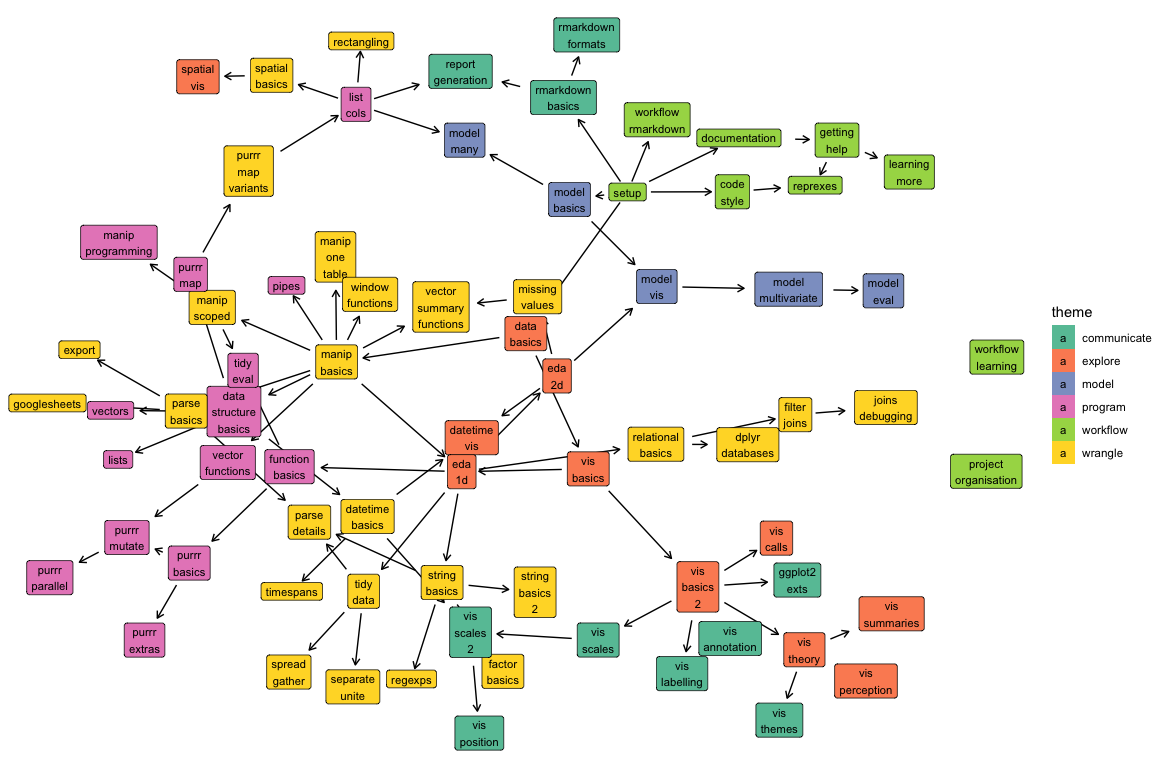
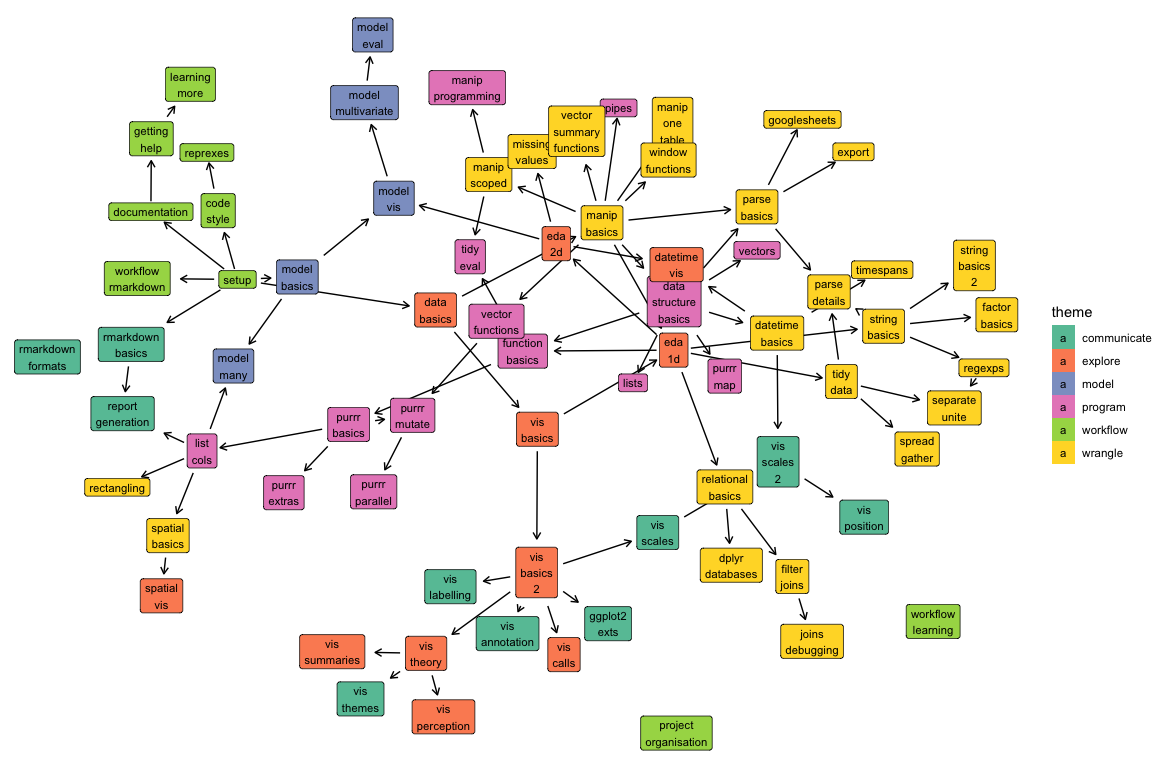
Remove purrr-map-variants

Changed region(s): [[0.0, 0.0, 0.9062, 1.0], [0.3125, 0.2188, 0.375, 0.2812]]

diff --git a/storyboard.md b/storyboard.md
@@ -366,7 +366,7 @@
 |r4ds-21.4                             |For loops vs. functionals                         |                                                                                   |                                                                             |                                                                                     |                                                                                 |                                                                             |                                                                             |                                                                                       |                                                                               |        |                                                                                     |
 |r4ds-21.5                             |The map functions                                 |                                                                                   |                                                                             |                                                                                     |                                                                                 |                                                                             |                                                                             |                                                                                       |                                                                               |        |                                                                                     |
 |r4ds-21.6                             |Dealing with failure                              |                                                                                   |                                                                             |                                                                                     |                                                                                 |                                                                             |                                                                             |                                                                                       |                                                                               |        |                                                                                     |
-|r4ds-21.7                             |Mapping over multiple arguments                   |                                                                                   |                                                                             |                                                                                     |                                                                                 |                                                                             |                                                                             |[purrr-map-variants](https://dcl-2019-01.github.io/curriculum/purrr-map-variants.html) |                                                                               |        |                                                                                     |
+|r4ds-21.7                             |Mapping over multiple arguments                   |                                                                                   |                                                                             |                                                                                     |                                                                                 |                                                                             |                                                                             |                                                                                       |                                                                               |        |                                                                                     |
 |r4ds-21.8                             |Walk                                              |                                                                                   |                                                                             |                                                                                     |                                                                                 |                                                                             |                                                                             |                                                                                       |                                                                               |        |                                                                                     |
 |r4ds-21.9                             |Other patterns of for loops                       |                                                                                   |                                                                             |                                                                                     |                                                                                 |                                                                             |                                                                             |                                                                                       |                                                                               |        |                                                                                     |
 |r4ds-22                               |Introduction                                      |                                                                                   |                                                                             |                                                                                     |                                                                                 |                                                                             |                                                                             |                                                                                       |                                                                               |        |                                                                                     |

diff --git a/docs/list-cols.md b/docs/list-cols.md
@@ -5,7 +5,7 @@ title: List columns
 <!-- Generated automatically from list-cols.yml. Do not edit by hand -->
 
 # List columns <small class='program'>[program]</small>
-<small>(Builds on: [Purrr map variants](purrr-map-variants.md))</small>  
+<small>(Builds on: [purrr basics](purrr-basics.md))</small>  
 <small>(Leads to: [Many models](model-many.md), [Data rectangling](rectangling.md), [Generating multiple reports](report-generation.md), [Spatial basics](spatial-basics.md))</small>
 
 List columns are a powerful way to extend data frames to contain arbitrary

diff --git a/docs/purrr-map.md b/docs/purrr-map.md
@@ -5,8 +5,7 @@ title: Iteration basics
 <!-- Generated automatically from purrr-map.yml. Do not edit by hand -->
 
 # Iteration basics <small class='program'>[program]</small>
-<small>(Builds on: [Data structure basics](data-structure-basics.md))</small>  
-<small>(Leads to: [Purrr map variants](purrr-map-variants.md))</small>
+<small>(Builds on: [Data structure basics](data-structure-basics.md))</small>
 
 
 ## Introduction

diff --git a/docs/purrr-basics.md b/docs/purrr-basics.md
@@ -6,7 +6,7 @@ title: purrr basics
 
 # purrr basics <small class='program'>[program]</small>
 <small>(Builds on: [Function basics](function-basics.md))</small>  
-<small>(Leads to: [Other purrr functions](purrr-extras.md), [purrr inside mutate](purrr-mutate.md))</small>
+<small>(Leads to: [List columns](list-cols.md), [Other purrr functions](purrr-extras.md), [purrr inside mutate](purrr-mutate.md))</small>
 
 
 ``` r

diff --git a/docs/index.md b/docs/index.md
@@ -287,12 +287,6 @@ title: Theme index
   <td colspan="4"><a class="model" href="model-multivariate.html">Models with multiple variables</a></td>
   <td colspan="2"></td>
 </tr>
-<tr>
-<td></td>
-  <td colspan="1"></td>
-  <td colspan="4"><a class="wrangle" href="purrr-map-variants.html">Purrr map variants</a></td>
-  <td colspan="4"></td>
-</tr>
 </tbody>
 <tbody>
 <tr>

diff --git a/docs/upcoming.md b/docs/upcoming.md
@@ -287,12 +287,6 @@ title: Theme index
   <td colspan="4"><a class="model" href="model-multivariate.html">Models with multiple variables</a></td>
   <td colspan="2"></td>
 </tr>
-<tr>
-<td></td>
-  <td colspan="1"></td>
-  <td colspan="4"><a class="wrangle" href="purrr-map-variants.html">Purrr map variants</a></td>
-  <td colspan="4"></td>
-</tr>
 </tbody>
 <tbody>
 <tr>
